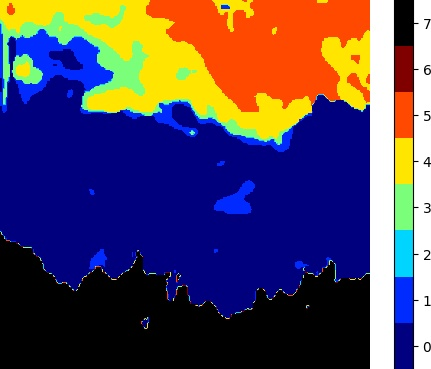
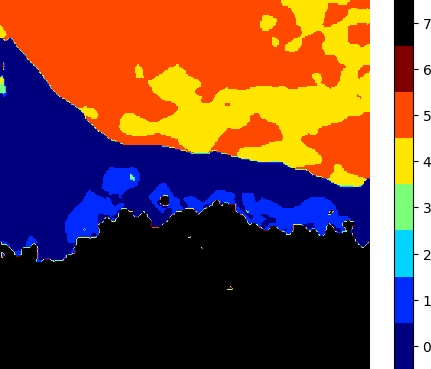
cleanup

diff --git a/icepredictor.py b/icepredictor.py
@@ -167,9 +167,19 @@ def predict_mask(images):
     IMG_SIZE = (256, 256)
     imgs_tf = tf.convert_to_tensor(images)#convert numpy array of images to tensor for model input
     imgs_tf = tf.image.resize(imgs_tf, IMG_SIZE)#resize images
-
     
-    return [1]#pred_mask.numpy()
+    model = tf.keras.models.load_model('model', custom_objects={'UpdatedMeanIoU':UpdatedMeanIoU})
+    pred_mask = model.predict_on_batch(imgs_tf)
+    pred_mask = tf.argmax(pred_mask, axis=-1)#use the highest proabbaility class as the prediction
+    pred_mask = pred_mask[..., tf.newaxis]
+    
+    #clearn model from memory
+    del model
+    gc.collect()
+    tf.keras.backend.clear_session()
+    gc.collect()
+
+    return pred_mask.numpy()
 
 def make_cmap(n_colors):
     #define a colormap for the mask
@@ -202,12 +212,13 @@ def display(display_list):
     plt.clf()
     
 def generate_data(longCenter, latCenter, time_start):
-    model = get_model()
     img, _ = get_images(longCenter, latCenter, time_start)
     imgs = np.expand_dims(img, axis=0)
-    masks = predict_mask(imgs, model)
+    masks = predict_mask(imgs)
     display([imgs[0], masks[0]])
 
 if __name__ == '__main__':
-    model = get_model()
     img, _ = get_images(-103.991, 68.520, time_start = '2020-07-22')
+    imgs = np.expand_dims(img, axis=0)
+    masks = predict_mask(imgs)
+    display([imgs[0], masks[0]])

diff --git a/main.py b/main.py
@@ -57,20 +57,8 @@ def form_post(request: Request, long1: float = Form(...), lat1: float = Form(...
     try:
         img, imgDate = get_images(longCenter = long1, latCenter = lat1, time_start = dateStart)
         imgs = np.expand_dims(img, axis=0)#predict mask expects an array of images so add an additional dimension
-        #mask = predict_mask(imgs)[0]
-        # display([img, mask])
-        
-        #generate a mask from the image
-        model = tf.keras.models.load_model('model', custom_objects={'UpdatedMeanIoU':UpdatedMeanIoU})
-        # # pred_mask = model.predict_on_batch(imgs_tf)
-        # # pred_mask = tf.argmax(pred_mask, axis=-1)#use the highest proabbaility class as the prediction
-        # # pred_mask = pred_mask[..., tf.newaxis]
-        
-        # #clearn model from memory
-        del model
-        gc.collect()
-        tf.keras.backend.clear_session()
-        gc.collect()
+        mask = predict_mask(imgs)[0]
+        display([img, mask])
     except Exception as e:
         error_code= 'no_imgs'
         imgDate = 'no_imgs'
